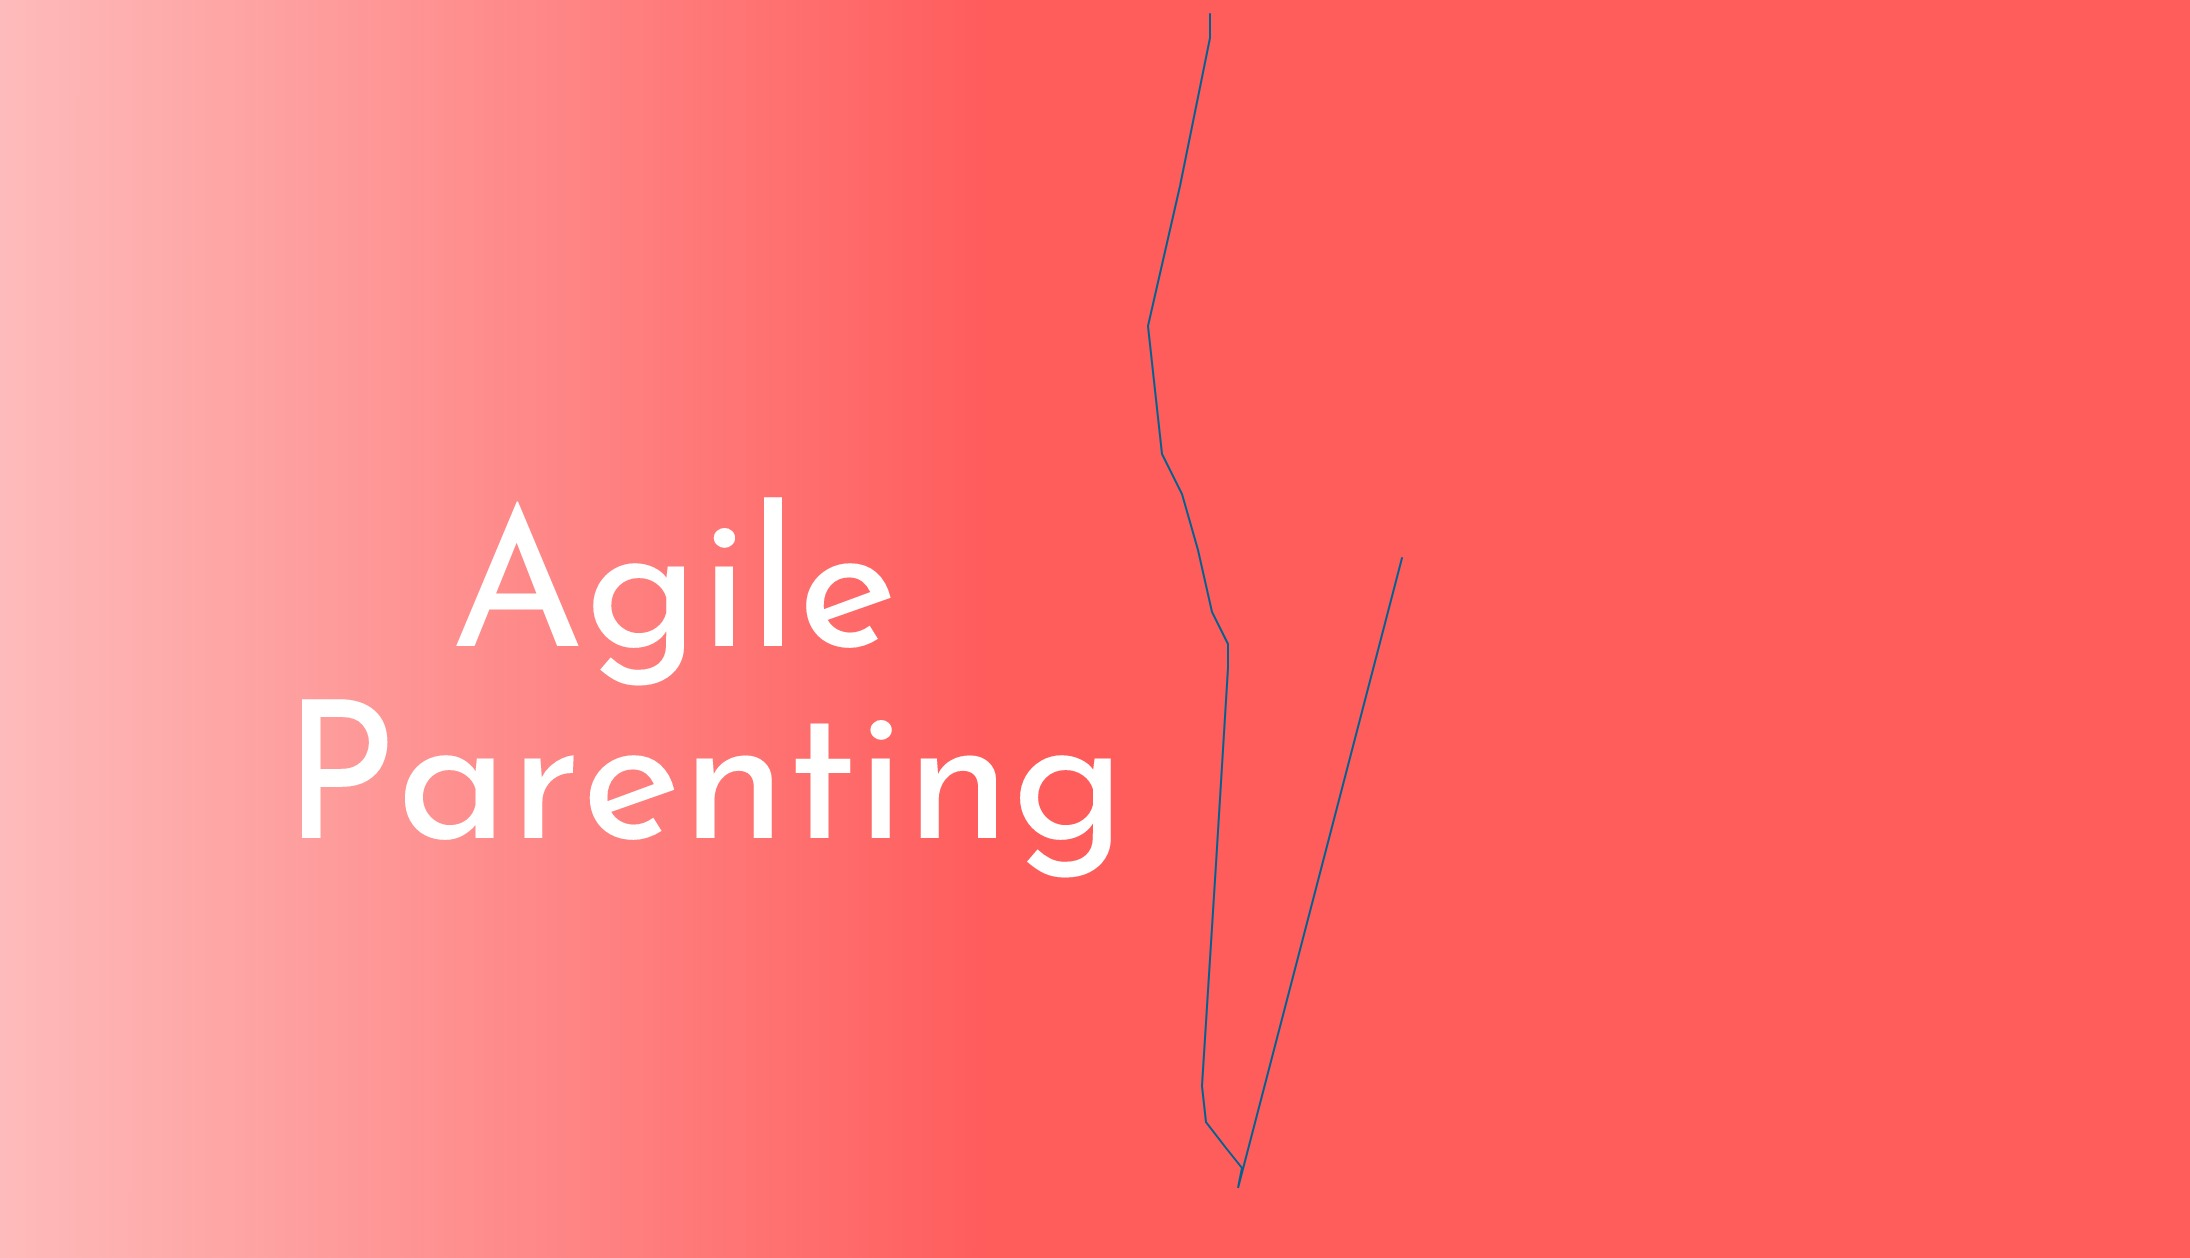
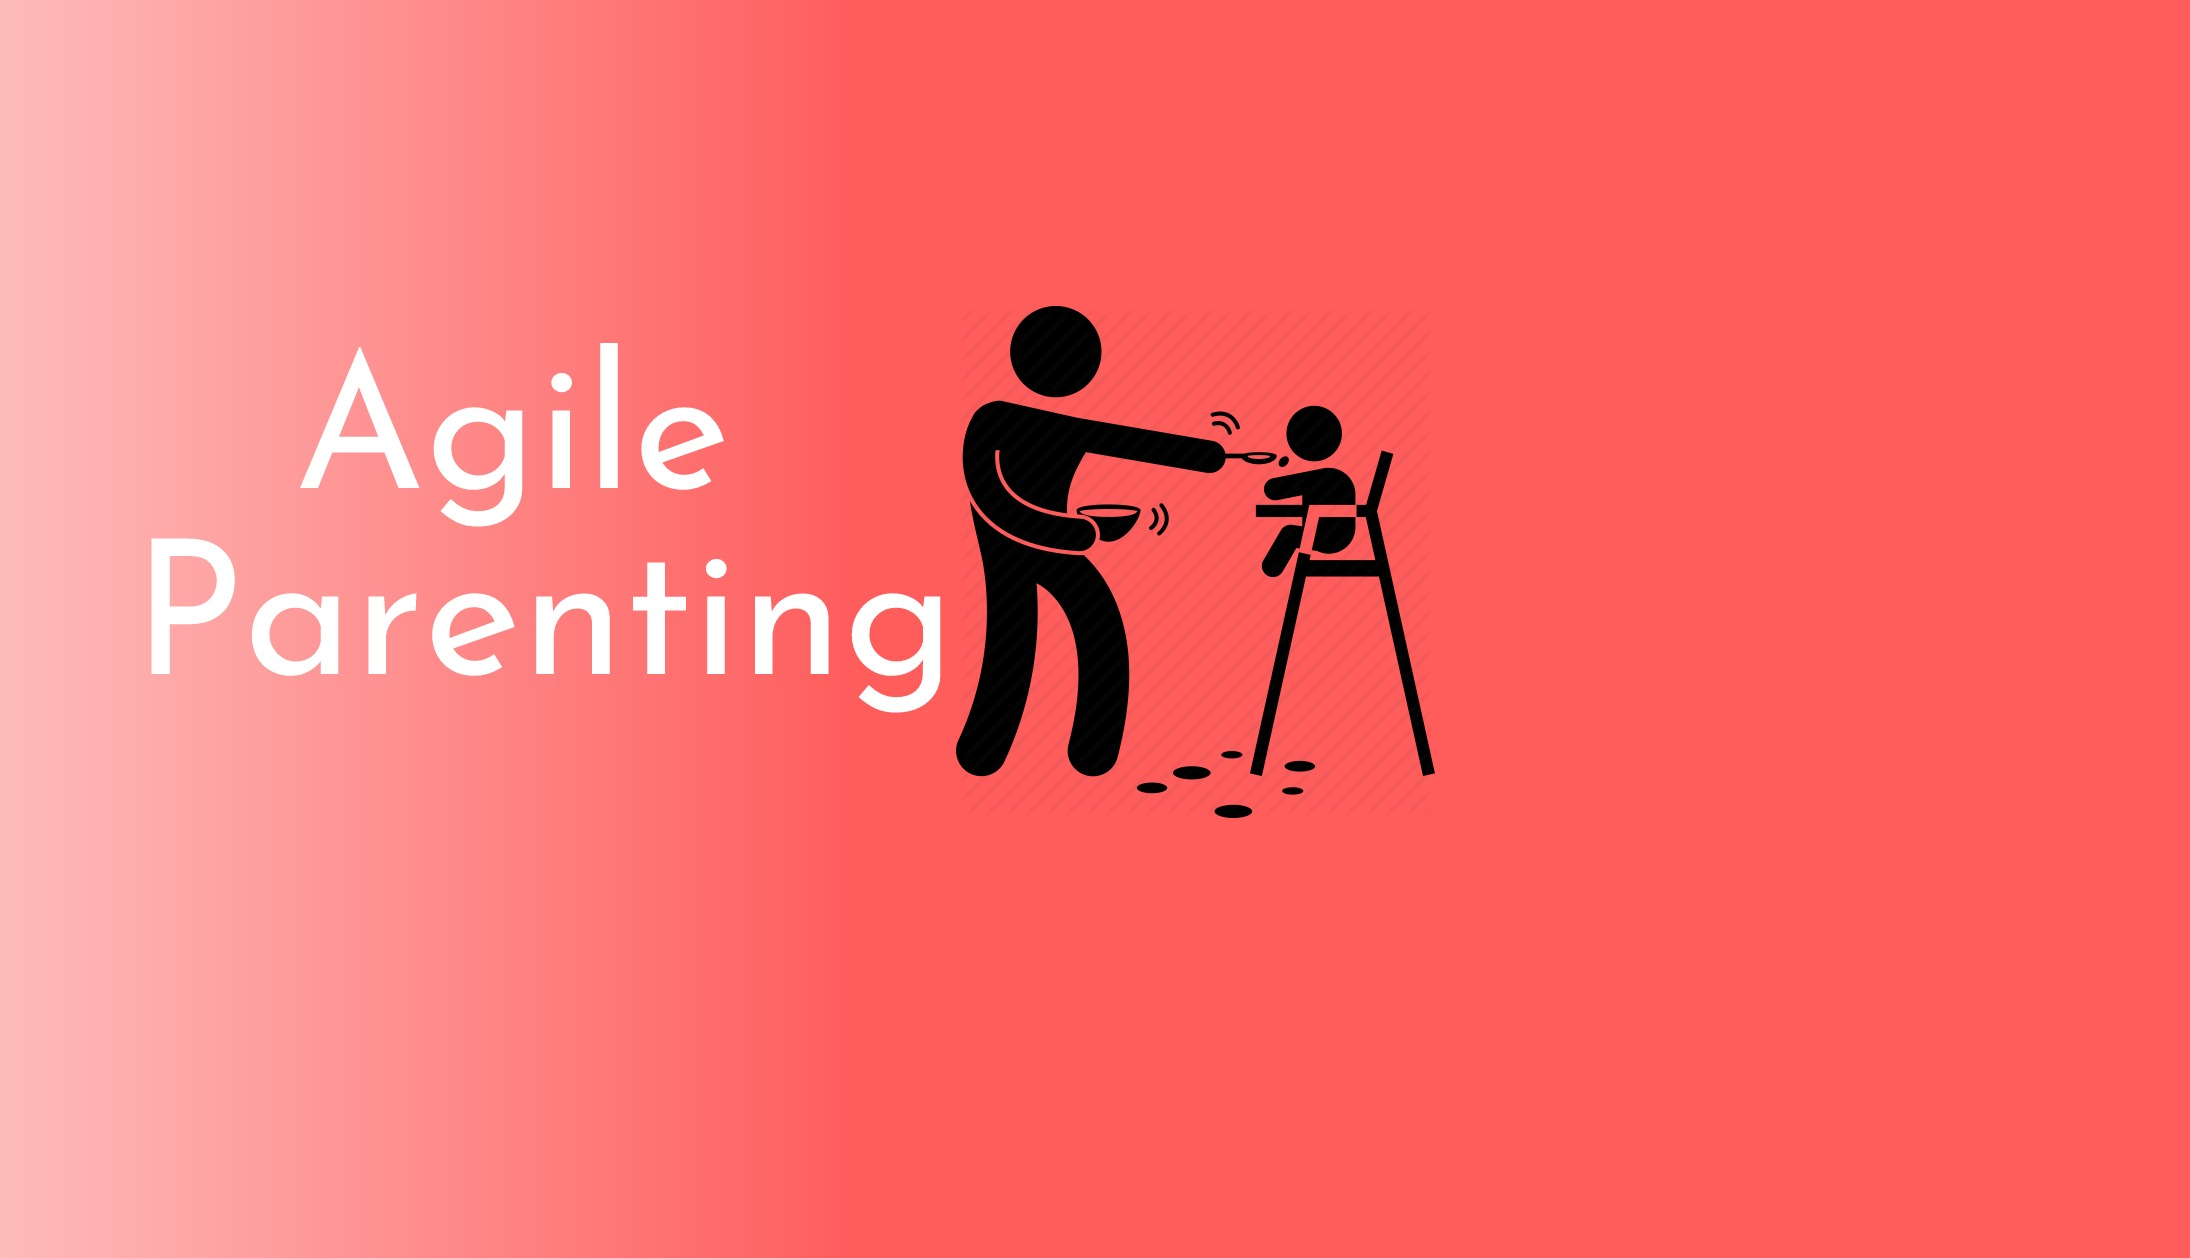
Add new image

Changed region(s): [[0.0621, 0.248, 0.6521, 0.713], [0.5589, 0.899, 0.59, 0.93]]

diff --git a/css/styles.css b/css/styles.css
@@ -6,12 +6,12 @@ h1{
   padding-top: 100px;
   padding-bottom: 20px;
   text-align: center;
-  font-family: fantasy;
+  font-family: montserrat;
 }
 h2{
   text-align: center;
   padding: 20px;
-  
+
   font-family: serif;
   }
 .container{
@@ -40,6 +40,9 @@ margin: 20px;
   padding-left:70px;
 
 }
+
+<img align="left|right|middle|top|bottom">
+
 .btn-primary {
   align-items: center;
     color: #fff;
